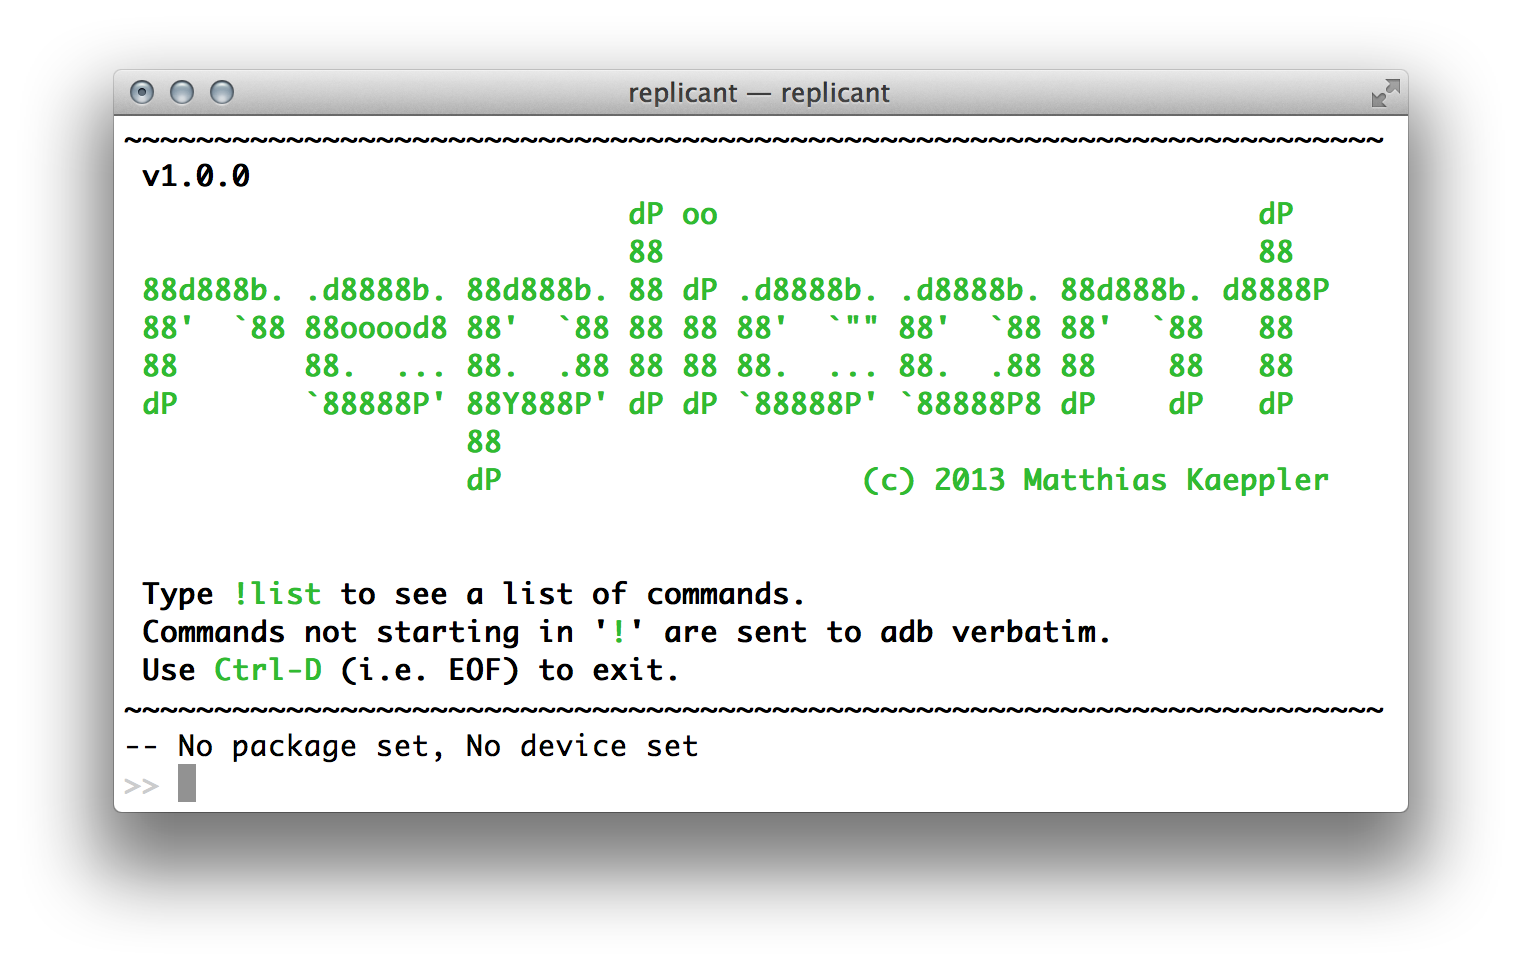
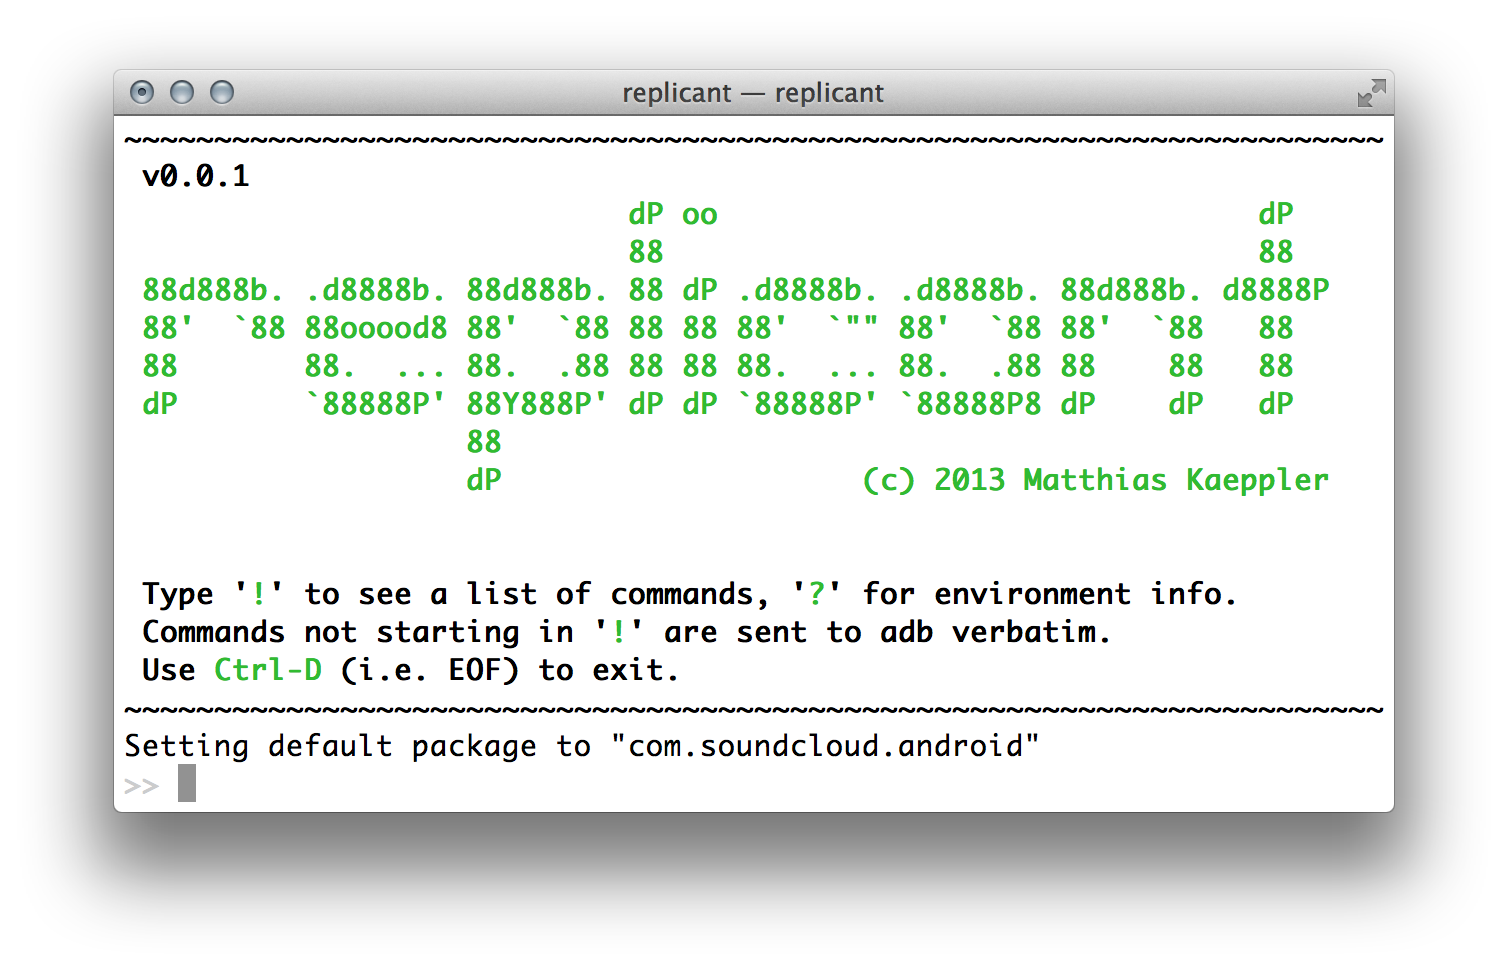
Update README

diff --git a/README.md b/README.md
@@ -23,7 +23,7 @@ From here on we list the available commands, fix the device to the first listed
 emulator, uninstall the app, then reset the session.
 
     ~~~~~~~~~~~~~~~~~~~~~~~~~~~~~~~~~~~~~~~~~~~~~~~~~~~~~~~~~~~~~~~~~~~~~~
-     v1.0.0
+     v0.0.1
                                 dP oo                              dP
                                 88                                 88
      88d888b. .d8888b. 88d888b. 88 dP .d8888b. .d8888b. 88d888b. d8888P
@@ -32,45 +32,34 @@ emulator, uninstall the app, then reset the session.
      dP       `88888P' 88Y888P' dP dP `88888P' `88888P8 dP    dP   dP
                        88
                        dP                    (c) 2013 Matthias Kaeppler
-    
-    
-     Type !list to see a list of commands.
+
+
+     Type '!' to see a list of commands, '?' for environment info.
      Commands not starting in '!' are sent to adb verbatim.
      Use Ctrl-D (i.e. EOF) to exit.
     ~~~~~~~~~~~~~~~~~~~~~~~~~~~~~~~~~~~~~~~~~~~~~~~~~~~~~~~~~~~~~~~~~~~~~~
     Setting default package to "com.soundcloud.android"
-    -- com.soundcloud.android, No device set
-    >> !list
+    >> !
+    !clear                -- clear application data
     !device               -- set a default device to work with
     !devices              -- print a list of connected devices
-    !list                 -- print a list of available commands
+    !logcat               -- access device logs
     !package              -- set a default package to work with
     !reset                -- clear current device and package
     !restart              -- restart ADB
     OK.
-    -- com.soundcloud.android, No device set
     >> !devices
-    
-    005de387d71505d6     [Nexus 4]
-    emulator-5554        [Android SDK built for x86]
-    
+
+    [0] Nexus 4                            | 005de387d71505d6
+    [1] Genymotion Nexus 4 API 18 768x1280 | 192.168.56.101:5555
+
     OK.
-    -- com.soundcloud.android, No device set
-    >> !device emu1
-    
-    005de387d71505d6     [Nexus 4]
-    emulator-5554        [Android SDK built for x86]
-    
-    Setting default device to emulator-5554 [Android SDK built for x86]
+    >> !device 0
+    Setting default device to 005de387d71505d6 [Nexus 4]
     OK.
-    -- com.soundcloud.android, emulator-5554 [Android SDK built for x86]
     >> uninstall
     Success
     OK.
-    -- com.soundcloud.android, emulator-5554 [Android SDK built for x86]
-    >> !reset
-    OK.
-    -- No package set, No device set
     >> 
 
 Install
@@ -81,15 +70,9 @@ command history and tab-completion, although it's not a requirement.
 `replicant` integrates with `rlwrap` automatically;
 it's sufficient for it to just be installed.
 
-Replicant hasn't seen a stable release yet, so for now, has to be installed as a local Ruby gem.
-To proceed, make sure that [bundler][3] is installed on your system. (e.g. `$gem install bundler`)
+If all requirements are met, you can install `replicant` as a Ruby gem:
 
-Clone this repository, then:
-
-    $ cd replicant
-    $ bundle install
-    $ rake install
-
+    $ gem install replicant-adb
 
 Contributing
 ------------
@@ -97,6 +80,7 @@ Contributing
 [![Build Status](https://travis-ci.org/mttkay/replicant.png)](https://travis-ci.org/mttkay/replicant)
 
 Please hack on replicant and make it better and more feature complete!
+Here's a general list of guidelines you should follow:
 
 * Check out the latest master to make sure the feature hasn't been implemented or the bug hasn't been fixed yet.
 * Check out the issue tracker to make sure someone already hasn't requested it and/or contributed it.
@@ -104,6 +88,20 @@ Please hack on replicant and make it better and more feature complete!
 * Start a feature branch to implement your bugfix or idea.
 * Write an executable spec. See existing specs in the test/ folder for examples.
 * Commit and push until you are happy with your contribution.
+
+After checking out the project, change into the project dir and do
+
+    $ bundle install
+
+to make sure all dependencies are installed. After making local changes, you can
+install locally using
+
+    $ rake install
+
+And don't forget to regularly
+
+    $ rake test
+
 
 Copyright
 ---------
